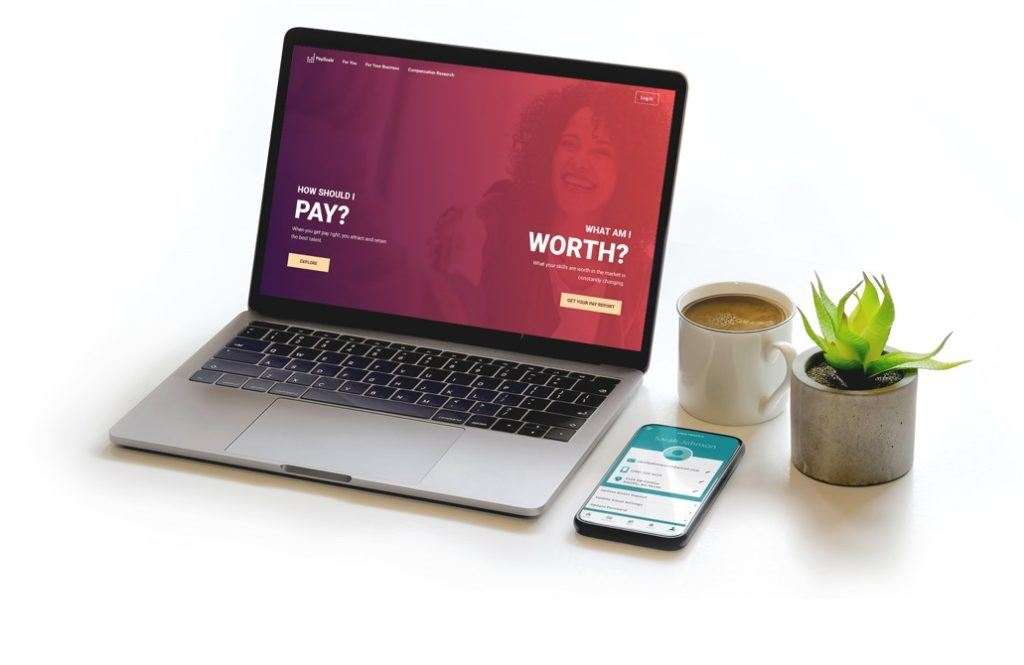
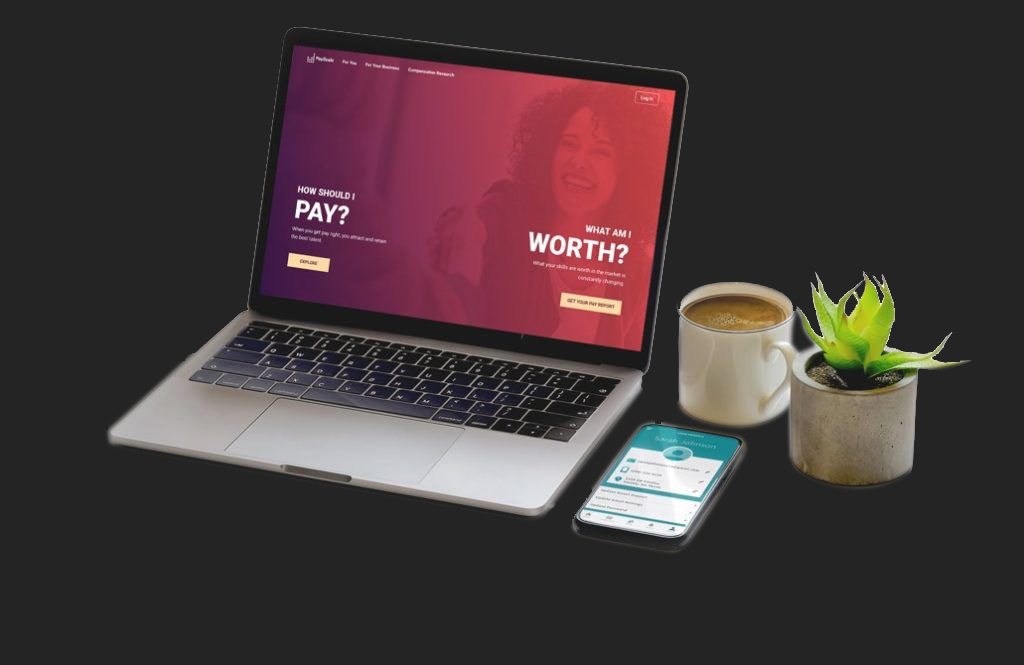
black color for all pages

diff --git a/css/main-new.css b/css/main-new.css
@@ -10647,7 +10647,8 @@ button.close {
 .post-header .intro-text,
 .search-form .ghost.regular-size.search-submit,
 .text-sm {
-	font-size: 14px
+	font-size: 14px;
+	color: #ffffff;
 }
 
 .text-md,
@@ -10892,7 +10893,8 @@ h3,
 h4,
 h5,
 h6 {
-	font-weight: 300
+	font-weight: 300;
+	color: #ffffff;
 }
 
 [class*=' icon-'],
@@ -12107,10 +12109,10 @@ h6 {
 }
 
 body {
-	background-color: #f3f6f8;
+	background-color: #242424;
 	font-family: EuclidCircular, sans-serif;
 	font-weight: 300;
-	color: #29383f;
+	color: #ffffff;
 	-webkit-font-smoothing: antialiased;
 	-moz-osx-font-smoothing: grayscale
 }
@@ -12551,11 +12553,11 @@ a.gray:hover {
 }
 
 a.gray-med {
-	color: #666
+	color: #ffffff;
 }
 
 a.gray-med:hover {
-	color: #333
+	color: #fcd327
 }
 
 a.no-underline:hover {
@@ -13933,7 +13935,8 @@ a:focus {
 }
 
 .location-contact-details .text-contact {
-	margin-bottom: 0
+	margin-bottom: 0;
+	color: #ffffff;
 }
 
 .contact-form {
@@ -17684,12 +17687,12 @@ body.is-mobile #mobile-menu-toggle {
 	transition: background-color .3s ease-in-out, border .3s ease-in-out;
 	padding: 15px 20px 11px 30px;
 	background-color: transparent;
-	border: #666a76 1px solid;
+	border: #fff 1px solid;
 	width: 100%;
 	letter-spacing: .07em;
 	text-transform: none;
 	font-weight: 400;
-	color: #1a2228
+	color: #ffffff
 }
 
 .contact-form .input-box input:focus,

diff --git a/product.html b/product.html
@@ -24,6 +24,7 @@
   <script src="splide/dist/js/splide-extension-video.min.js"></script>
 
 
+
   <style type="text/css" id="wp-custom-css">
     .step-form .gform_footer input {
       display: inline;
@@ -121,9 +122,11 @@
         <main class="main">
           <div class="mb-lg-0 mb-md-0 mb-sm-0 mb-xs-0 pt-97">
             <div id="splide" class="splide pt-6">
-              <div class="splide__track">
+              <div class="carousel-inner">
+			  <div class="splide__track">
+			  
                 <ul id="splide-handle" class="splide__list">
-                  <li class="splide__slide">
+                  <li class="splide__slide ">
                     <div class="splide__slide__container">
                       <img src="splide/images/1.jpg">
                     </div>
@@ -147,6 +150,7 @@
 
                 </ul>
               </div>
+			  </div>
             </div>
           </div>
 

diff --git a/css/main.css b/css/main.css
@@ -22037,7 +22037,7 @@ body .video-lazy {
 	font-family: EuclidCircular, sans-serif;
 	font-weight: 500;
 	font-size: 24px;
-	color: #29383f;
+	color: #ffffff;
 	line-height: 1.4
 }
 @media (min-width: 992px) {
@@ -22089,7 +22089,7 @@ body .video-lazy {
 	font-family: EuclidCircular, sans-serif;
 	font-weight: 300;
 	font-size: 16px;
-	color: #666a76;
+	color: #ffffff;
 	line-height: 26px
 }
 .text__small {
@@ -27158,7 +27158,7 @@ svg.pitch__videos-play-btn {
 	}
 }
 .page-template-template-about {
-	background-color: #fff
+	background-color: #242424
 }
 .page-template-template-team {
 	background-color: #fff

diff --git a/splide/dist/css/custom.css b/splide/dist/css/custom.css
@@ -12,4 +12,15 @@
 	.pt-97{
 		padding-top: 0px;
 	}
+	
+	.carousel-inner img {
+      width: 100%;
+	  position: absolute;
+	  top: 0;
+	  bottom: 0;
+	  left: 0;
+	  right: 0;
+	  margin: auto;
+	}
+	
 }
